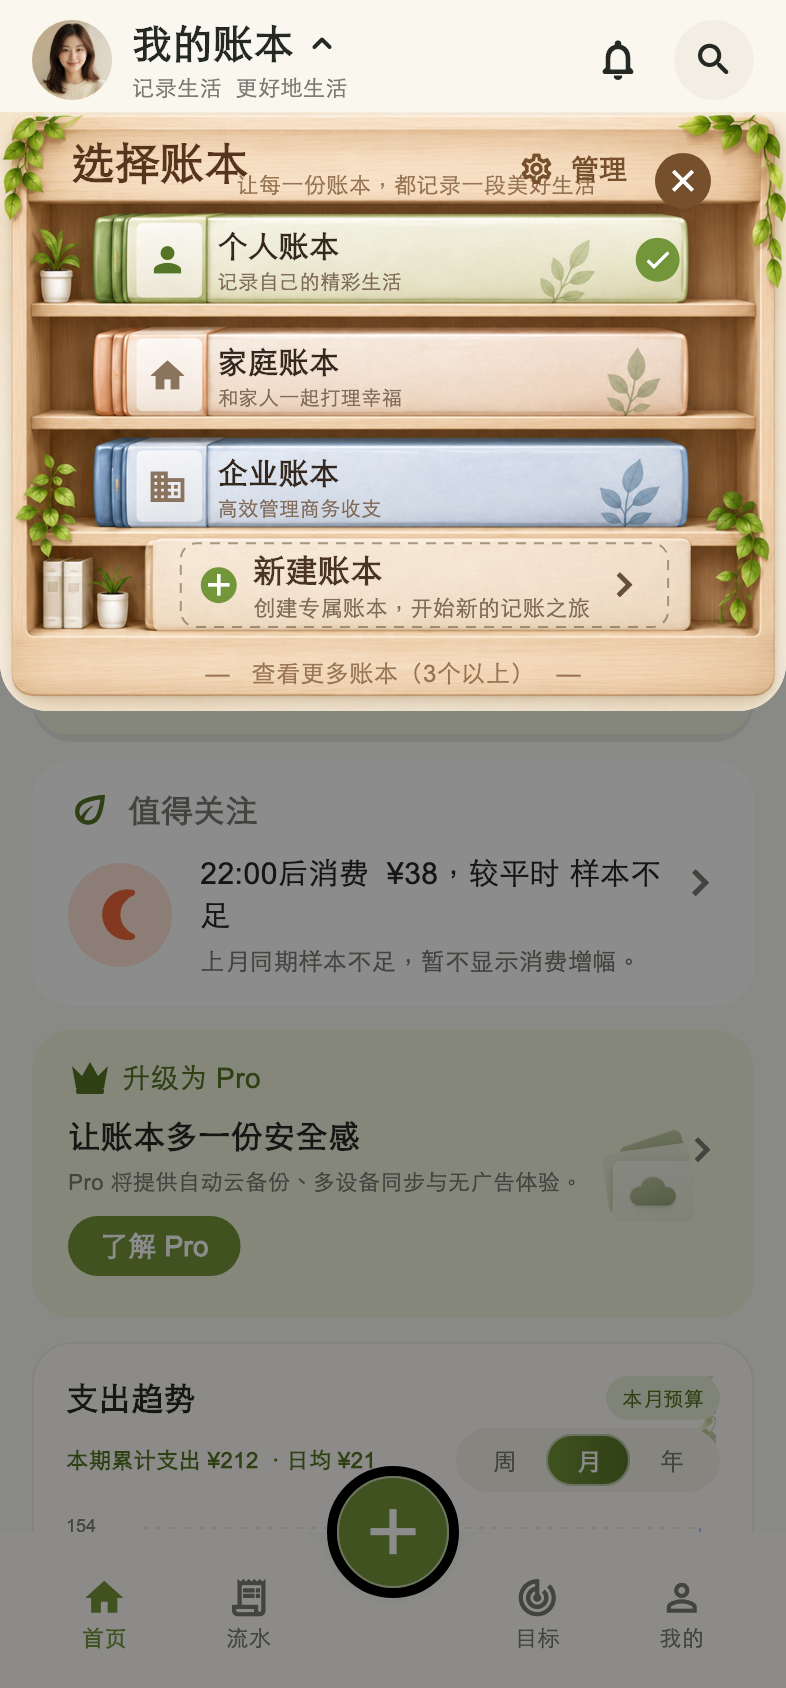
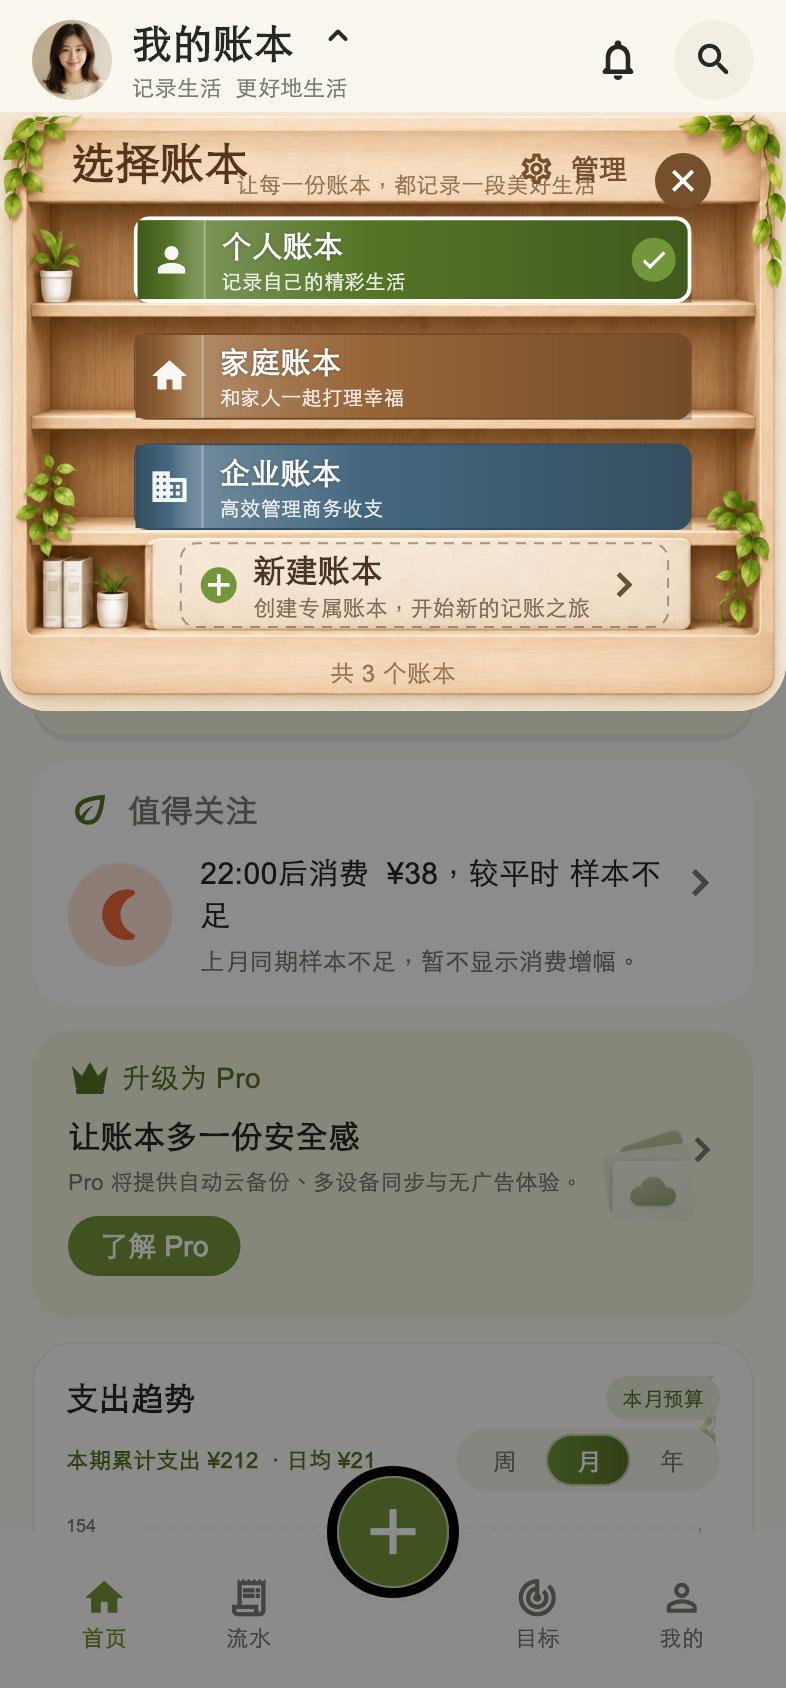
feat: separate bookshelf background from ledger books

diff --git a/lib/features/books/presentation/book_selector.dart b/lib/features/books/presentation/book_selector.dart
@@ -200,7 +200,10 @@ class _BookSelectorSheetState extends ConsumerState<_BookSelectorSheet> {
                 child: Stack(
                   children: [
                     Positioned.fill(
-                      child: Image.asset(AppAssets.bookshelf, fit: BoxFit.fill),
+                      child: Image.asset(
+                        AppAssets.bookshelfEmpty,
+                        fit: BoxFit.fill,
+                      ),
                     ),
                     Positioned(
                       top: imageHeight * .035,
@@ -1330,80 +1333,117 @@ class _ShelfBookRow extends StatelessWidget {
 
   @override
   Widget build(BuildContext context) {
-    final icon = switch (book.type) {
-      BookType.personal => Icons.person,
-      BookType.family => Icons.home,
-      BookType.enterprise => Icons.business,
-    };
+    final color = _bookTypeColor(book.type);
+    final dark = Color.lerp(color, Colors.black, .24)!;
+    final light = Color.lerp(color, Colors.white, .32)!;
     final subtitle = switch (book.type) {
       BookType.personal => '记录自己的精彩生活',
       BookType.family => '和家人一起打理幸福',
       BookType.enterprise => '高效管理商务收支',
     };
+    final radius = BorderRadius.circular(8);
     return Semantics(
+      selected: selected,
       button: true,
       label: '${book.name}，$subtitle${selected ? '，当前账本' : ''}',
-      child: GestureDetector(
-        onLongPress: onLongPress,
-        child: InkWell(
-          onTap: onTap,
-          borderRadius: BorderRadius.circular(8),
-          child: Row(
-            children: [
-              SizedBox(
-                width: 34,
-                child: Center(
-                  child: Icon(
-                    icon,
-                    color: selected
-                        ? AppColors.primaryDark
-                        : const Color(0xFF8B745E),
-                    size: 20,
-                  ),
-                ),
+      child: Material(
+        color: Colors.transparent,
+        child: Ink(
+          decoration: BoxDecoration(
+            gradient: LinearGradient(
+              begin: Alignment.centerLeft,
+              end: Alignment.centerRight,
+              colors: [light, color, dark],
+              stops: const [0, .42, 1],
+            ),
+            borderRadius: radius,
+            border: Border.all(
+              color: selected ? Colors.white : dark,
+              width: selected ? 2 : 1,
+            ),
+            boxShadow: const [
+              BoxShadow(
+                color: Color(0x40000000),
+                blurRadius: 5,
+                offset: Offset(2, 3),
               ),
-              const SizedBox(width: 8),
-              Expanded(
-                child: FittedBox(
-                  fit: BoxFit.scaleDown,
-                  alignment: Alignment.centerLeft,
-                  child: Column(
-                    mainAxisAlignment: MainAxisAlignment.center,
-                    crossAxisAlignment: CrossAxisAlignment.start,
-                    children: [
-                      Text(
-                        book.name,
-                        maxLines: 1,
-                        overflow: TextOverflow.ellipsis,
-                        style: const TextStyle(
-                          fontSize: 15,
-                          fontWeight: FontWeight.w700,
-                          color: Color(0xFF34271D),
-                        ),
-                      ),
-                      Text(
-                        subtitle,
-                        maxLines: 1,
-                        overflow: TextOverflow.ellipsis,
-                        style: const TextStyle(
-                          fontSize: 10,
-                          color: Color(0xFF806B58),
-                        ),
-                      ),
-                    ],
-                  ),
-                ),
-              ),
-              if (selected)
-                const Padding(
-                  padding: EdgeInsets.only(right: 6),
-                  child: CircleAvatar(
-                    radius: 11,
-                    backgroundColor: AppColors.primary,
-                    child: Icon(Icons.check, color: Colors.white, size: 15),
-                  ),
-                ),
             ],
+          ),
+          child: InkWell(
+            onTap: onTap,
+            onLongPress: onLongPress,
+            borderRadius: radius,
+            child: Row(
+              children: [
+                SizedBox(
+                  width: 34,
+                  height: double.infinity,
+                  child: DecoratedBox(
+                    decoration: BoxDecoration(
+                      gradient: LinearGradient(
+                        begin: Alignment.centerLeft,
+                        end: Alignment.centerRight,
+                        colors: [dark, color, light.withValues(alpha: .48)],
+                      ),
+                      border: Border(
+                        right: BorderSide(
+                          color: Colors.white.withValues(alpha: .28),
+                        ),
+                      ),
+                    ),
+                    child: Icon(
+                      _bookTypeIcon(book.type),
+                      color: Colors.white.withValues(alpha: .94),
+                      size: 20,
+                    ),
+                  ),
+                ),
+                const SizedBox(width: 8),
+                Expanded(
+                  child: FittedBox(
+                    fit: BoxFit.scaleDown,
+                    alignment: Alignment.centerLeft,
+                    child: Column(
+                      mainAxisAlignment: MainAxisAlignment.center,
+                      crossAxisAlignment: CrossAxisAlignment.start,
+                      children: [
+                        Text(
+                          book.name,
+                          maxLines: 1,
+                          overflow: TextOverflow.ellipsis,
+                          style: const TextStyle(
+                            fontSize: 15,
+                            fontWeight: FontWeight.w700,
+                            color: Colors.white,
+                            shadows: [
+                              Shadow(color: Color(0x55000000), blurRadius: 2),
+                            ],
+                          ),
+                        ),
+                        Text(
+                          subtitle,
+                          maxLines: 1,
+                          overflow: TextOverflow.ellipsis,
+                          style: TextStyle(
+                            fontSize: 10,
+                            color: Colors.white.withValues(alpha: .86),
+                          ),
+                        ),
+                      ],
+                    ),
+                  ),
+                ),
+                if (selected)
+                  const Padding(
+                    padding: EdgeInsets.only(right: 6),
+                    child: CircleAvatar(
+                      radius: 11,
+                      backgroundColor: AppColors.primary,
+                      child: Icon(Icons.check, color: Colors.white, size: 15),
+                    ),
+                  ),
+              ],
+            ),
           ),
         ),
       ),

diff --git a/test/home_reference_page_capture_test.dart b/test/home_reference_page_capture_test.dart
@@ -4,6 +4,7 @@ import 'package:flutter_riverpod/flutter_riverpod.dart';
 import 'package:flutter_test/flutter_test.dart';
 import 'package:jizhang_app/app/router/app_router.dart';
 import 'package:jizhang_app/app/theme/app_theme.dart';
+import 'package:jizhang_app/core/constants/app_assets.dart';
 import 'package:jizhang_app/core/database/database_provider.dart';
 import 'package:jizhang_app/core/database/database_seeder.dart';
 import 'package:jizhang_app/core/models/family.dart';
@@ -67,7 +68,7 @@ void main() {
           'assets/images/home_living_scene.png',
           'assets/images/pro_cloud_reference_v1.png',
           'assets/images/leaves_reference_v1.png',
-          'assets/images/bookshelf_reference_v1.png',
+          AppAssets.bookshelfEmpty,
         ]) {
           debugPrint('QA loading $asset');
           await precacheImage(AssetImage(asset), context);

diff --git a/lib/core/constants/app_assets.dart b/lib/core/constants/app_assets.dart
@@ -8,4 +8,6 @@ abstract final class AppAssets {
   static const proCloud = 'assets/images/pro_cloud_reference_v1.png';
   static const homeLeaves = 'assets/images/leaves_reference_v1.png';
   static const bookshelf = 'assets/images/bookshelf_reference_v1.png';
+  static const bookshelfEmpty =
+      'assets/images/bookshelf_empty_background_v1.png';
 }

diff --git a/docs/development/HOME_REFERENCE_REPLICATION_2026-09-10.md b/docs/development/HOME_REFERENCE_REPLICATION_2026-09-10.md
@@ -32,7 +32,7 @@
 6. 执行现有相关测试、Flutter analyze 和目标平台 build，输出截图及剩余差异。不得以检查通过替代视觉验收。
 
 ## 下一步
-等待用户确认素材可用性和像素一致验收边界，再决定开发。无需重复询问是否允许使用指定 Luna 子代理，用户已授权，但前提是先解决上述可行性问题。
+按用户确认的计划继续逐段实施；每个切片完成后先由主代理完成代码、测试和截图复核，再进入下一项。无需重复询问是否允许使用指定 Luna 子代理，用户已授权，但仍以实际验收结果为准。
 
 ## 用户后续确认（2026-09-10）
 - 接受按参考图尽量逼近，允许使用内置 imagegen 生成相似素材。
@@ -43,7 +43,8 @@
 
 ## 素材来源
 均使用内置 imagegen，以用户原图作为参考，不使用外部 API 密钥。
-- assets/images/bookshelf_reference_v1.png：以卡片3为编辑目标，去掉手机头部及所有字/图标，保留木柜、三色横向书册、藤叶、盆栽和空白新建面板。动态账本仍必须由组件绘制，不能将装饰书册视为真实存在的账本。
+- assets/images/bookshelf_reference_v1.png：原始书架设计参考，保留木柜、三色横向书册、藤叶、盆栽和空白新建面板，仅作参考，不作为运行时背景。
+- assets/images/bookshelf_empty_background_v1.png：运行时书架背景，移除上层三色装饰书，只保留木柜、层板、植物和底层装饰；动态账本由组件独立绘制，不能将背景装饰视为真实账本。
 - assets/images/pro_cloud_reference_v1.png：以卡片1中 Pro 云备份图案为参考，生成透明底浅奶油/鼠尾草绿叠放卡片和云朵，无文字。
 - assets/images/leaves_reference_v1.png：以卡片1右上植物为参考，生成透明底右上角垂落绿叶，无文字或家具。
 - assets/images/home_living_scene.png：复用项目原有透明底家具及藤叶素材。
@@ -67,7 +68,7 @@
 ### 第三项：账本选择抽屉
 - `book_selector.dart` 改为木质书架抽屉：标题、管理入口、关闭按钮、个人/家庭/企业横向书册、新建账本入口及“查看更多账本”均由组件绘制。
 - 抽屉顶部保留与首页一致的头像、账本标题、铃铛和搜索入口；铃铛/搜索仍分别进入现有通知和流水搜索路由。
-- 书架纹理、藤叶和三种空白书册背景来自 `assets/images/bookshelf_reference_v1.png`，账本名称、类型、选中状态和管理操作仍来自真实 `LedgerBook` 数据，未把图片中的文字当作数据。
+- 书架纹理、藤叶和底层装饰来自 `assets/images/bookshelf_empty_background_v1.png`，账本名称、类型、选中状态和管理操作仍来自真实 `LedgerBook` 数据；个人/家庭/企业书本由 `_ShelfBookRow` 独立绘制，未把图片中的文字或书册当作数据。
 - 账本切换、关闭、长按管理、新建入口以及首页月份/账本联动测试均通过。
 
 ## 当前验收产物
@@ -79,7 +80,7 @@
 
 ## 验证结果（2026-09-10）
 - `flutter analyze`：通过，无问题。
-- `flutter test`：全量通过，125 个测试通过。
+- `flutter test`：全量通过，153 个测试通过。
 - `test/home_reference_page_capture_test.dart`：真实 Provider + 隔离内存数据库截图通过，并生成上述三张 QA 截图。
 - `flutter build apk --debug`：构建成功，产物为 `build/app/outputs/flutter-apk/app-debug.apk`。
 - 主要交互覆盖：隐私金额隐藏/恢复、周预算诚实提示、预算/月切换、目标节点、账本切换/关闭/管理、会员入口、铃铛入口、首页交易行及小屏大字号无布局溢出。

diff --git a/docs/development/CURRENT_STATUS.md b/docs/development/CURRENT_STATUS.md
@@ -28,6 +28,9 @@
 - 2026-09-10 抽屉切片 1 已统一账本数量规则：Free 10、Pro 20、Family 50；共享他人账本不占创建额度；预览沿创建顺序展示，活动账本在前三本之外时替换第三位。
 - 2026-09-10 抽屉切片 2 已完成可搜索的全部账本管理视图、显式管理入口和一体化新建表单；新建默认个人用途，成功后真实持久化并切换，320dp/1.6 字号回归无布局异常。
 - 2026-09-10 抽屉切片 2 已通过 `flutter build apk --debug`，产物为 `build/app/outputs/flutter-apk/app-debug.apk`；本机本次未连接 Android 设备，未虚报安装截图验收。
+- 2026-09-10 抽屉切片 3 已新增无内置账本的木质书架背景，并将个人/家庭/企业账本改为独立 Flutter 书本层；QA 预缓存清单同步更新，避免截屏在新素材加载前完成。
+- 2026-09-10 抽屉切片 3 已完成全量回归：153 个 Flutter tests、analyze 和 Debug APK 构建均通过；本机仍无 Android 设备，未虚报安装验收。
+- 2026-09-10 抽屉切片 3 的 Release APK 已成功构建，且 APK 内确认包含 `bookshelf_empty_background_v1.png`；构建仍有既存 `speech_to_text` KGP 兼容性 warning。
 
 ## 当前未完成或未联调
 
@@ -37,7 +40,7 @@
 - 公网云部署、对象存储、家庭短信邀请和企业报税。
 - 第三方广告 SDK、后台 placement、Rewarded 和 Splash。
 - iOS 真机、签名和发布验收。
-- 账本抽屉计划中的书架背景拆分、全部账本搜索管理、新建一体化表单和交易详情尚未完成。
+- 账本抽屉计划中最近交易查询、交易详情/附件预览及阶段二、阶段三能力尚未完成。
 
 ## 当前架构风险
 
@@ -55,20 +58,24 @@ flutter analyze
 → No issues found
 
 flutter test --reporter expanded
-→ All tests passed（120 个）
+→ All tests passed（153 个）
+
+flutter build apk --debug
+→ Built build/app/outputs/flutter-apk/app-debug.apk
 
 flutter build apk --release
-→ Built build/app/outputs/flutter-apk/app-release.apk（72,799,794 bytes）
+→ Built build/app/outputs/flutter-apk/app-release.apk（77,229,866 bytes）
 
 server: npm run typecheck && npm test && npm run build
 → typecheck、2 个真实 HTTP 测试、TypeScript build 全部通过
 ```
 
-当前 APK：`build/app/outputs/flutter-apk/app-release.apk`，72,799,794 bytes，SHA-256：
[1 lines of base64/hex data omitted]
+当前 APK：`build/app/outputs/flutter-apk/app-release.apk`，77,229,866 bytes，SHA-256：
[1 lines of base64/hex data omitted]
 
 Android 模拟器 `emulator-5554` 已安装 Release APK 并实际打开首页、顶部书架抽屉：
 [首页截图](../../qa/home-book-icon-2026-09-09.png) · [立体书架抽屉截图](../../qa/bookshelf-book-icon-2026-09-09.png) · [系统桌面图标截图](../../qa/launcher-book-icon-2026-09-09.png)。这是本地 Pixel 7 模拟器证据，不是物理手机验收。
+以上模拟器截图是 2026-09-09 的历史版本证据；切片 3 构建后本机没有连接设备，因此未声称已重新安装验收。
 
 测试期间有 Drift Widget 测试重复创建内存数据库的 debug warning，但没有测试失败；后续应统一测试数据库生命周期。
 

diff --git a/docs/development/2026-09-10-ledger-drawer-slice-3.md b/docs/development/2026-09-10-ledger-drawer-slice-3.md
@@ -1,0 +1,43 @@
+# 账本抽屉执行记录：切片 3
+
+日期：2026-09-10
+
+## 问题原因
+
+原书架 PNG 同时包含木柜和三本绿色、米色、蓝色账本。应用再叠加真实账本时，背景本身仍会显示固定书本，造成“空层板有伪账本”、账本数量与画面不一致，也无法安全支持 1/2/3 本预览。
+
+## 本切片修改
+
+- 基于原书架参考图生成 `assets/images/bookshelf_empty_background_v1.png`，只移除上层三本装饰书，保留木柜、层板、植物、底层白色装饰书和尺寸比例；原参考图不覆盖，仍保留作设计参考。
+- 在 `AppAssets` 增加 `bookshelfEmpty`，抽屉背景切换为新素材。
+- 重写 `_ShelfBookRow` 的视觉层：每一本账本由独立的 Flutter gradient、书脊、类型图标、标题、副标题、选中态和阴影组成，交互仍复用原有切换与长按管理回调。
+- 更新首页参考截屏测试的资源预缓存清单，确保新背景在截屏前完成加载；QA 截图已重新生成并确认三本真实账本叠加在空层板上。
+
+## 验证
+
+```text
+flutter test test/book_selector_ui_test.dart test/book_repository_test.dart
+→ All tests passed（11 个）
+
+flutter test test/home_reference_page_capture_test.dart
+→ All tests passed（1 个）；新背景预缓存成功，截图已检查
+
+flutter analyze
+→ No issues found
+
+flutter test --reporter compact
+→ All tests passed（153 个）
+
+flutter build apk --debug
+→ Built build/app/outputs/flutter-apk/app-debug.apk
+
+adb devices
+→ 没有连接 Android 设备，因此未进行安装和真机截图验收
+```
+
+## 未完成与风险
+
+- 书本仍是确定性的代码绘制层，尚未引入用户自定义封面文件；当前已经满足背景与账本实体解耦，但模板封面属于阶段二。
+- 底层白色书本和大面积留白面板是背景装饰的一部分，不代表业务账本；业务账本只由 `_ShelfBookRow` 绘制。
+- 创建顺序目前仍依赖同时间戳时的 SQLite `rowid` 兼容排序；跨设备稳定业务序号需后续加入模型和同步协议。
+- 最近交易 10 条、交易详情与附件预览尚未开始，不能将本切片视为阶段一全部完成。

diff --git a/docs/development/2026-09-10-ledger-improvement-plan.md b/docs/development/2026-09-10-ledger-improvement-plan.md
@@ -9,7 +9,7 @@
 - [x] 账本预览只使用真实账本，Free 上限统一为 10，Pro 20，Family 50。
 - [x] 账本列表沿 Repository 的创建顺序显示；当前账本不在前三本时替换第三预览位。
 - [x] 底部数量文案区分“共 N 个账本”和“查看全部账本（N）”。
-- [ ] 拆分书架背景与独立书本素材，彻底消除空层板上的背景伪账本。
+- [x] 拆分书架背景与独立书本素材，彻底消除空层板上的背景伪账本。
 - [x] 将全部账本管理改为可搜索、可滚动、带同步状态的新视图。
 - [x] 将新建账本的用途、名称和封面预览合并为一个底部表单。
 - [ ] 最近交易改为当前账本最近 10 条、按本地日期分组并使用数据库限量查询。
